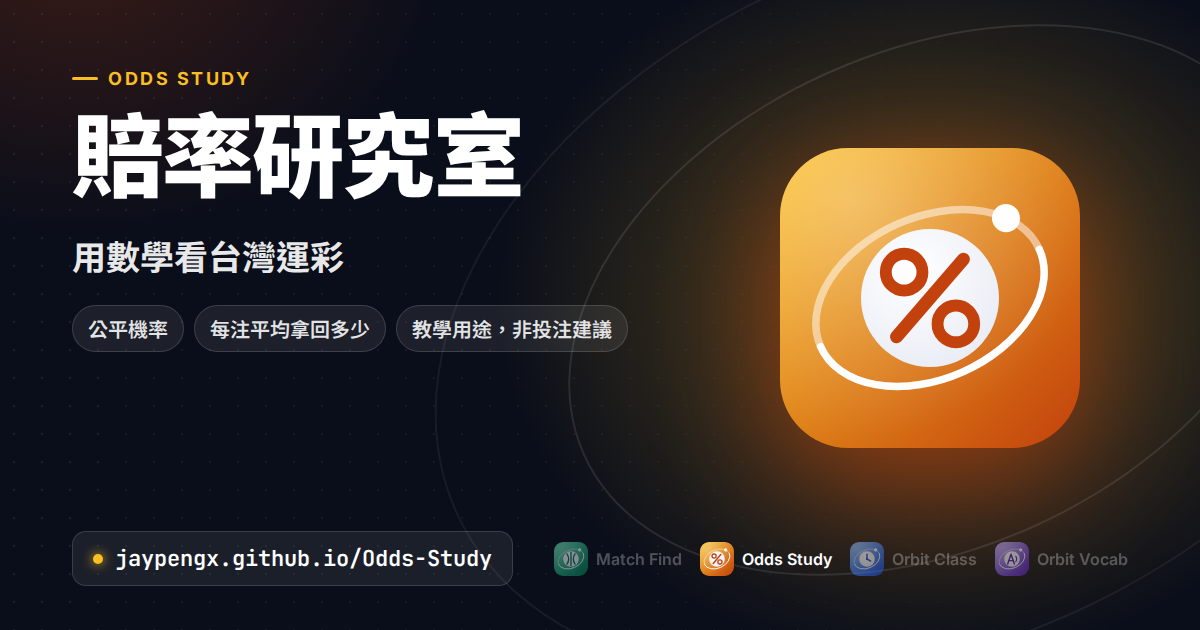
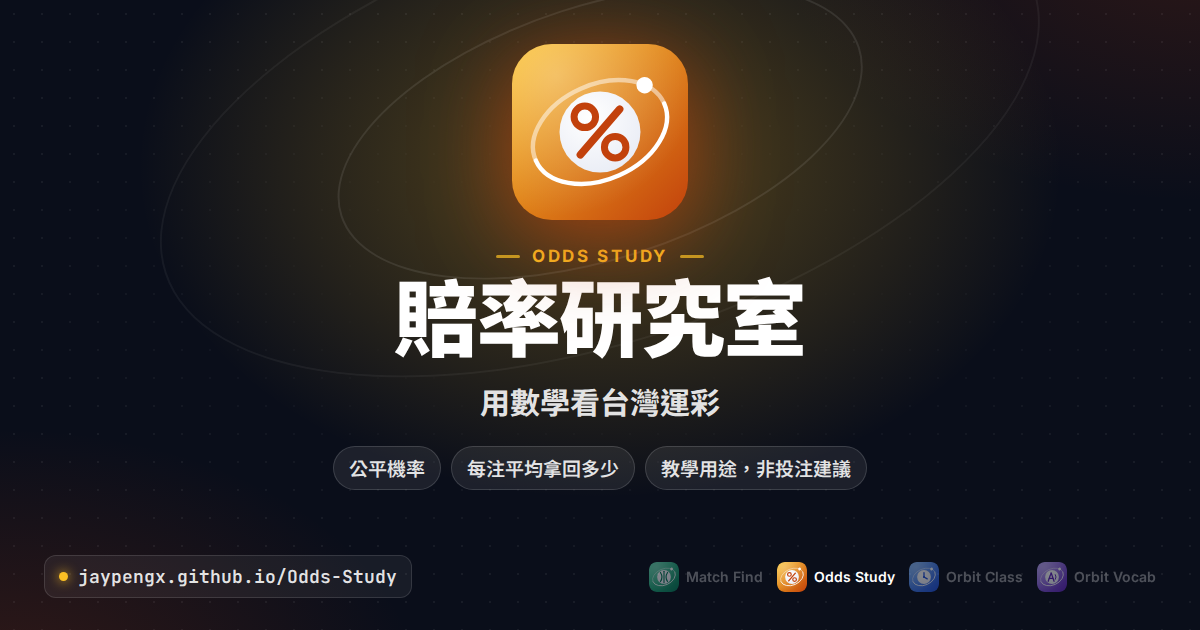
Make link previews work at thumbnail size too
Many apps (WhatsApp, Telegram, LINE, iMessage, Slack's compact view) don't show the wide card - they crop its middle to a small square. The wide card is now laid out around its center, so that crop still shows the icon and the app name; the URL and the app family strip sit in the outer corners.

Adds a 1200x1200 square card as a second og:image for platforms that pick a square image, plus og:image:alt / twitter:image:alt text.

Claude-Session: https://claude.ai/code/session_011gRUGYTdy3QH8ZGKD1vFqq

diff --git a/public/index.html b/public/index.html
@@ -16,10 +16,16 @@
 <meta property="og:image" content="https://jaypengx.github.io/Odds-Study/og-image.png" />
 <meta property="og:image:width" content="1200" />
 <meta property="og:image:height" content="630" />
+<meta property="og:image:alt" content="賠率研究室 Odds Study" />>
+<meta property="og:image" content="https://jaypengx.github.io/Odds-Study/og-image-square.png" />>
+<meta property="og:image:width" content="1200" />>
+<meta property="og:image:height" content="1200" />>
+<meta property="og:image:alt" content="賠率研究室 Odds Study" />>
 <meta name="twitter:card" content="summary_large_image" />
 <meta name="twitter:title" content="賠率研究室 Odds Study｜用數學看台灣運彩" />
 <meta name="twitter:description" content="用數學看台灣運彩：公平機率、估計賠率、每一注平均拿回多少。教學用途。" />
 <meta name="twitter:image" content="https://jaypengx.github.io/Odds-Study/og-image.png" />
+<meta name="twitter:image:alt" content="賠率研究室 Odds Study" />>
 <link rel="preconnect" href="https://sports-proxy.pengzjay.workers.dev" crossorigin />
 <link rel="preconnect" href="https://a.espncdn.com" />
 <link rel="stylesheet" href="./styles.css" />
